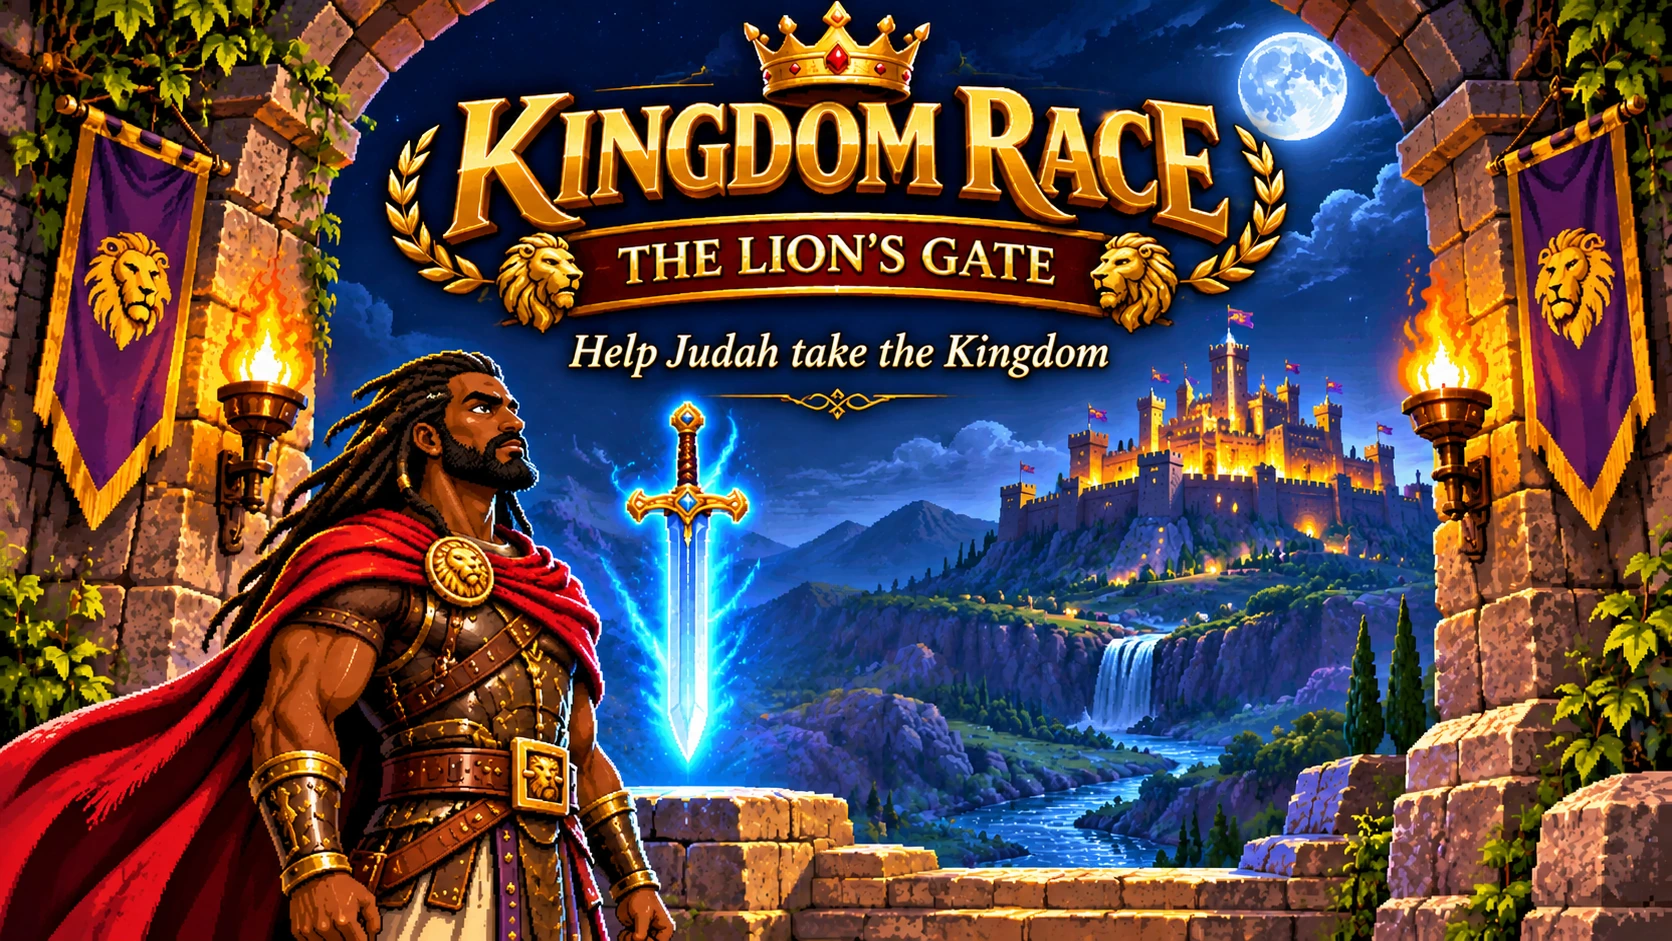
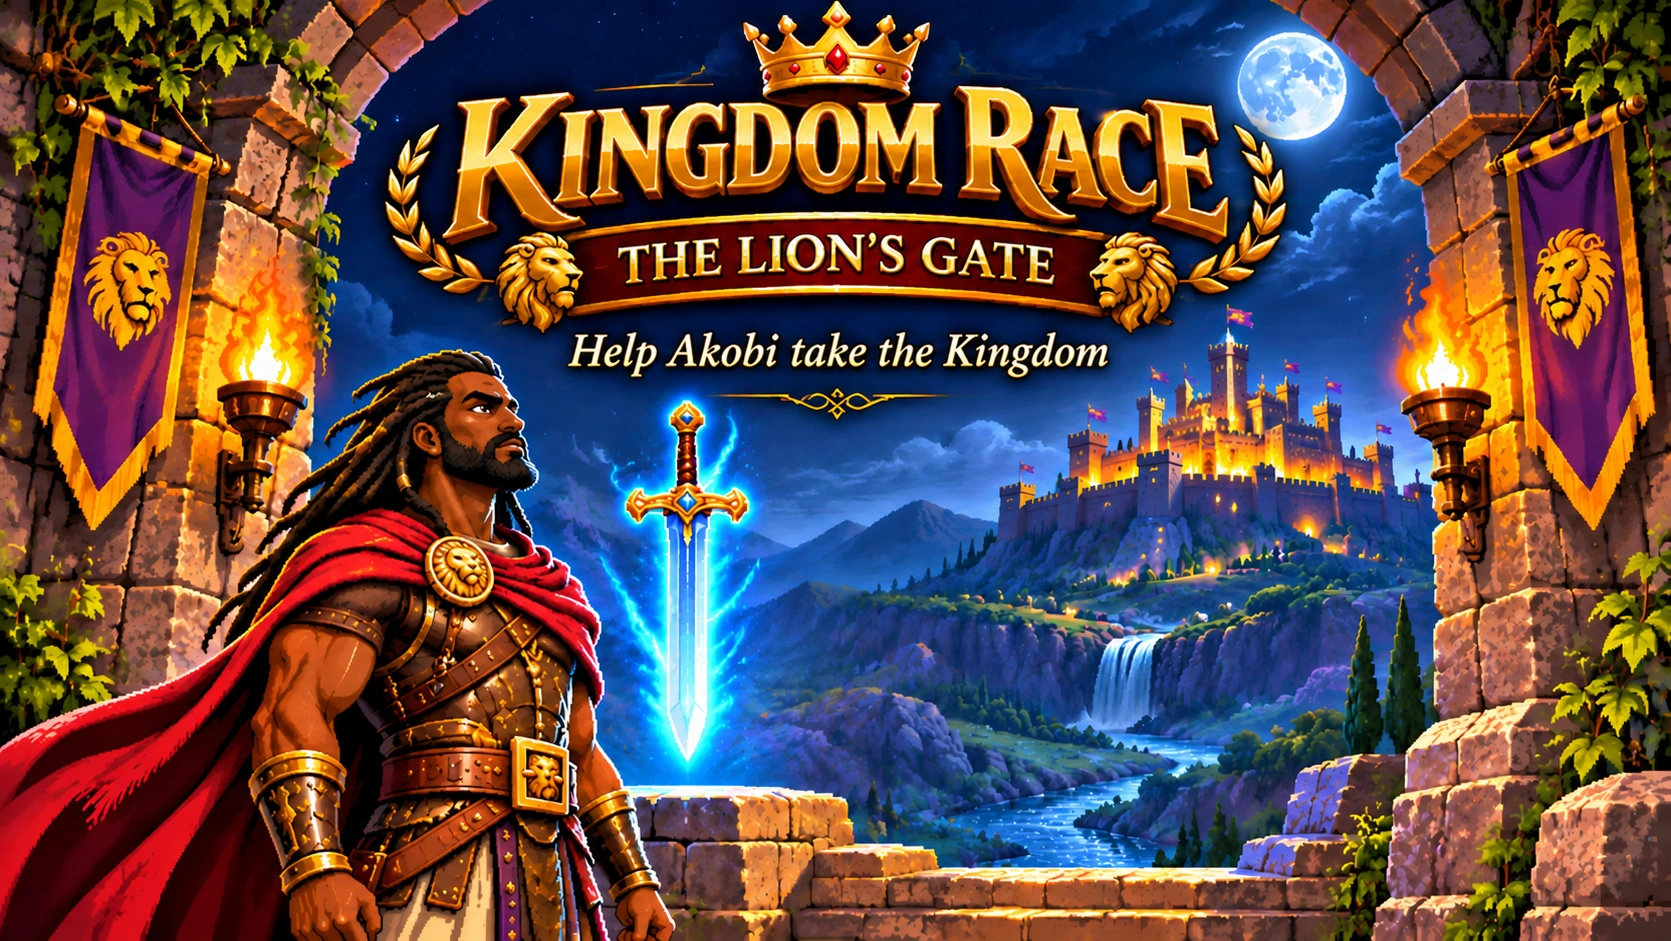
Update Kingdom Race cover with Akobi artwork

diff --git a/src/data/games.js b/src/data/games.js
@@ -7,9 +7,9 @@ export const games = [
     shortTitle: 'Kingdom Race', genre: 'Bible trivia · Combat',
     status: 'playable', featured: true, accent: 'gold', players: '1 player',
     artwork: '/images/kingdom-race-promo-1672.webp',
-    artworkSrcSet: '/images/kingdom-race-promo-640.webp 640w, /images/kingdom-race-promo-960.webp 960w, /images/kingdom-race-promo-1672.webp 1672w',
-    artworkWidth: 1672, artworkHeight: 941, artworkPresentation: 'official',
-    artworkAlt: "Kingdom Race: The Lion’s Gate — official promotional artwork featuring Judah, a glowing sword, and a moonlit castle. Help Judah take the Kingdom.",
+    artworkSrcSet: '/images/kingdom-race-promo-640.webp 640w, /images/kingdom-race-promo-960.webp 960w, /images/kingdom-race-promo-1672.webp 1671w',
+    artworkWidth: 1671, artworkHeight: 941, artworkPresentation: 'official',
+    artworkAlt: "Kingdom Race: The Lion’s Gate — official promotional artwork featuring Akobi, a glowing sword, and a moonlit castle. Help Akobi take the Kingdom.",
     description: 'Put your Scripture knowledge to the test in a single-player Bible trivia combat game with animated encounters and progression. Step into the arena, take on the challenge, and sharpen your knowledge through play.',
     shortDescription: 'Single-player Bible trivia combat. Face animated encounters and progress through the challenge.',
     features: ['Single-player Bible trivia', 'Animated combat encounters', 'Progression through play'],
